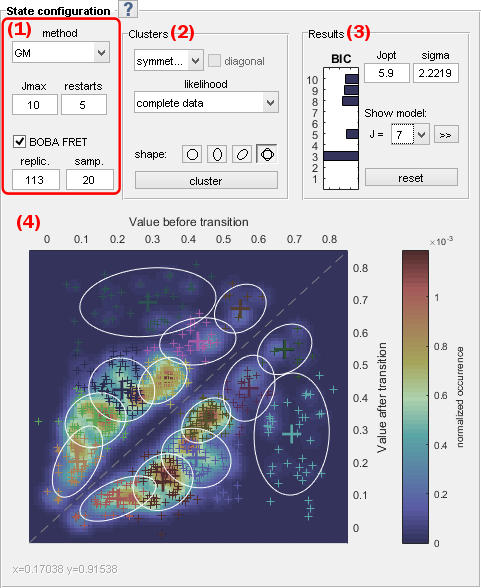
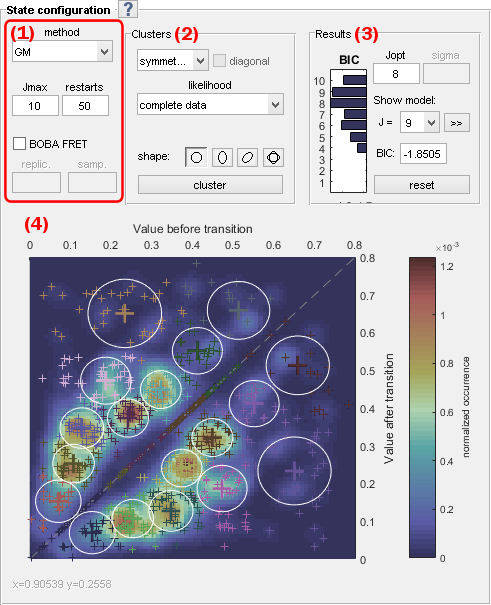
add BIC edit field in TA

Changed region(s): [[0.0, 0.0, 1.0, 0.9796], [0.842, 0.398, 0.9667, 0.949]]

diff --git a/MASH-FRET/source/divers/fitMultiExp.m b/MASH-FRET/source/divers/fitMultiExp.m
@@ -20,7 +20,6 @@ ampmin = 0;
 taumin = 0;
 ampmax = 2;
 taumax = Inf;
-minAsum = 1; % minimum sum of amplitudes
 
 fitbounds = [];
 if ~isempty(varargin)
@@ -84,6 +83,11 @@ else
     maxVal = reshape(fitbounds.upper,[2,n]);
 end
 
+if n==1
+    minAsum = 1; % minimum sum of amplitudes
+else
+    minAsum = 0; % minimum sum of amplitudes
+end
 if sum(prm0(1,:))<minAsum
     prm0(1,:) = minAsum*prm0(1,:)/sum(prm0(1,:));
 end

diff --git a/MASH-FRET/source/mod_transition_analysis/export_options/exportBOBAfit_exp.m b/MASH-FRET/source/mod_transition_analysis/export_options/exportBOBAfit_exp.m
@@ -17,8 +17,8 @@ nRow = 4;
 h = guidata(h_fig);
 p = h.param.TDP;
 proj = p.curr_proj;
-tag = p.curr_tag;
-tpe = p.curr_type;
+tag = p.curr_tag(proj);
+tpe = p.curr_type(proj);
 prm = p.proj{proj}.prm{tag,tpe};
 kin_res = prm.kin_res(j,:);
 kin_start = prm.kin_start{1}(j,:);

diff --git a/docs/transition-analysis/panels/panel-state-configuration.md b/docs/transition-analysis/panels/panel-state-configuration.md
@@ -15,7 +15,7 @@ State configuration is the second panel of module Transition analysis.
 
 Use this panel to determine the optimum number of transition clusters and associated cross-sample variability.
 
-<a class="plain" href="../../assets/images/gui/TA-panel-state-configuration.png"><img src="../../assets/images/gui/TA-panel-state-configuration.png" style="max-width:481px;"></a>
+<a class="plain" href="../../assets/images/gui/TA-panel-state-configuration.png"><img src="../../assets/images/gui/TA-panel-state-configuration.png" style="max-width:491px;"></a>
 
 ## Panel components
 {: .no_toc .text-delta }
@@ -251,7 +251,7 @@ Coordinates and radii in the y-direction are not adjustable when using `matrix` 
 
 Use this interface to visualize results of a state configuration analysis.
 
-<img src="../../assets/images/gui/TA-panel-state-configuration-results.png" style="max-width:246px;">
+<img src="../../assets/images/gui/TA-panel-state-configuration-results.png" style="max-width:172px;">
 
 After transition clustering, GM-clustering results are summarized in a bar plot where the BIC is presented in function of the number of components.
 
@@ -261,6 +261,7 @@ When using BOBA-FRET, the bootstrap mean and standard deviation of the most suff
 
 Other inferred models can be visualized in the 
 [Visualization area](#visualization-area) by selecting the corresponding number of components in the list **(d)**. 
+The associated BIC value is shown in **(e)**.
 
 Transition clusters of any model can be imported in 
 [State transition rates](panel-state-transition-rates.html) for dwell time analysis, by pressing 
